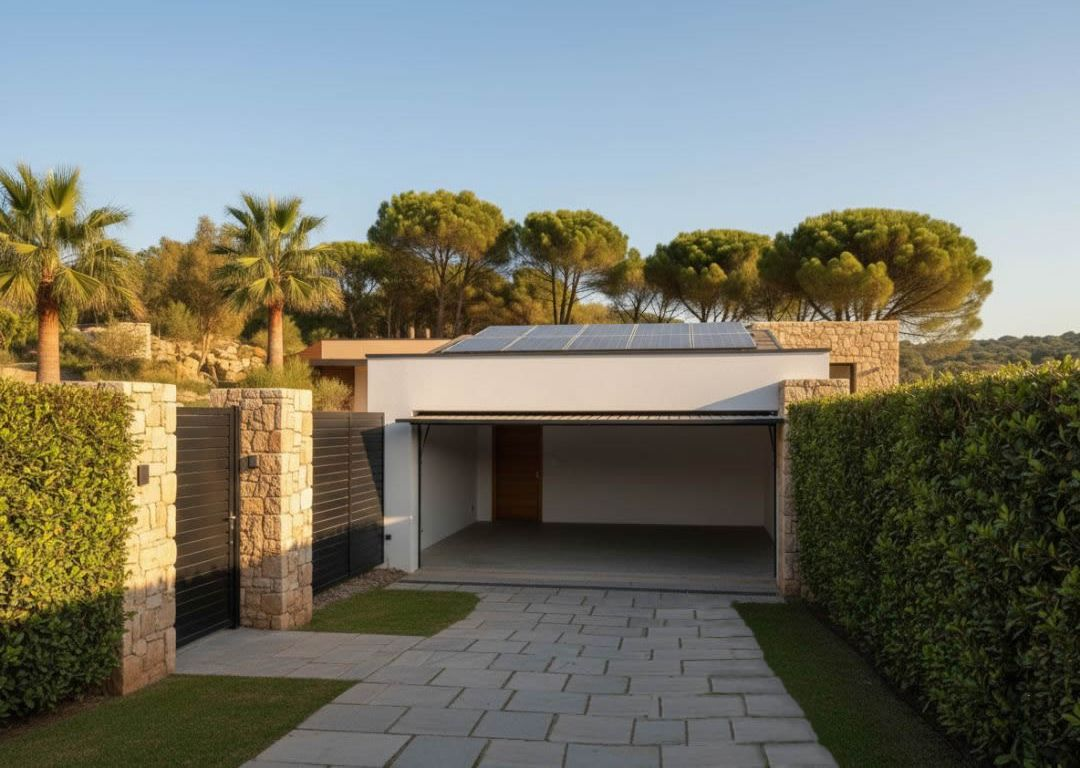
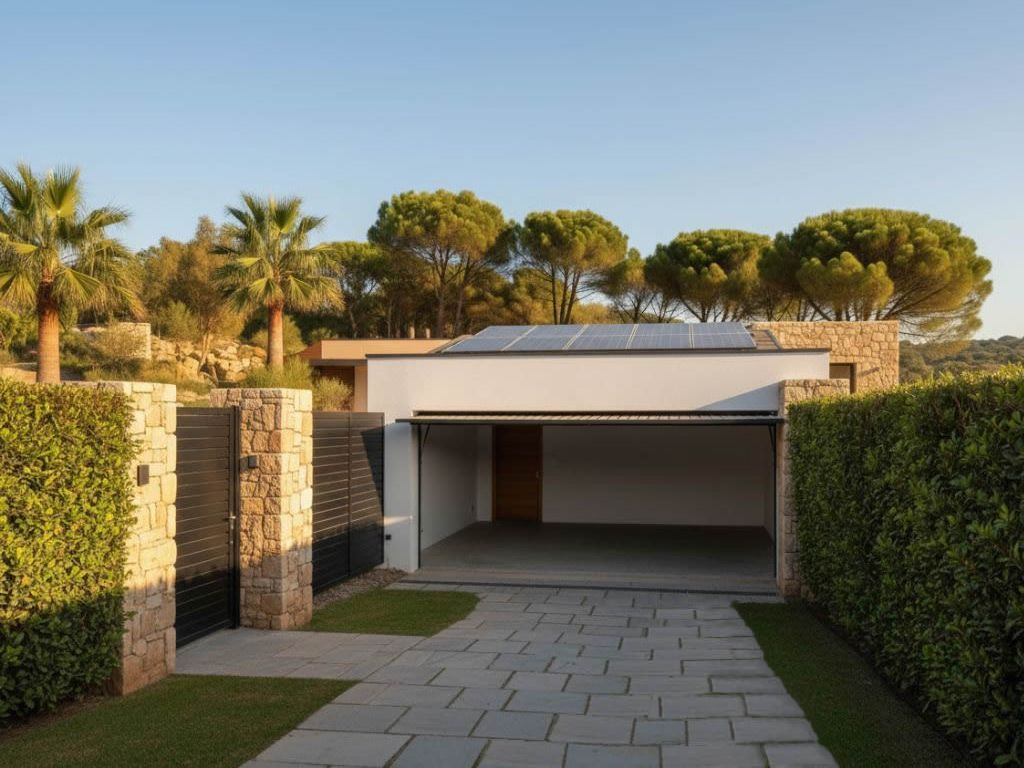
eco-house family courtyard

diff --git a/src/app/eco-house-family/page.tsx b/src/app/eco-house-family/page.tsx
@@ -69,7 +69,7 @@ export default function EcoHouseFamilyPage() {
               <div className="mt-16 mx-auto max-w-4xl">
                 <div className="relative aspect-video rounded-xl overflow-hidden">
                   <Image
-                    src="/assets/eco-house-2/lux-vitae-eco-house-family.jpg"
+                    src="/assets/eco-house-2/lux-vitae-eco-house-family-courtyard.jpg"
                     alt="Lux Vitae Eco House Family Courtyard"
                     fill
                     className="object-cover"
